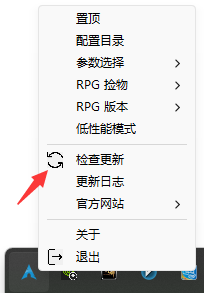
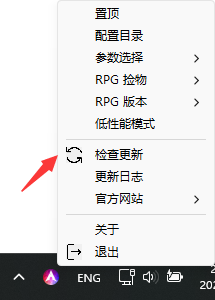
new version

diff --git a/setup.md b/setup.md
@@ -38,10 +38,8 @@ projectArk: True
 - 启动失败：请前往下载页面安装全部的修复程序后再次尝试
 
 ## 更新
-- [官网]({{site.cdn}}/release)下载更新
-- 提示有新版后，右键任务栏托盘小图标-检测更新
-
-  ![12]({{site.cdn}}/resource/update_info.png)
+- [官网]({{site.cdn}}/release)下载，替换本地文件夹中程序完成更新
+- 右键屏幕右下角任务栏小图标-检查更新
 
   ![12]({{site.cdn}}/resource/update.png)
 
